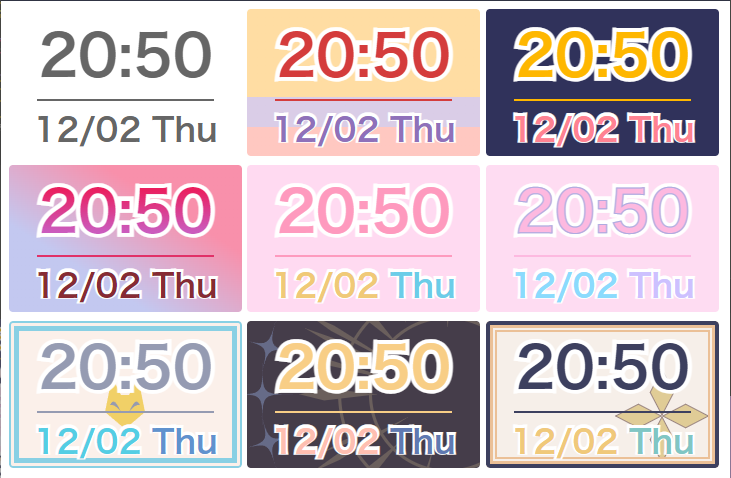
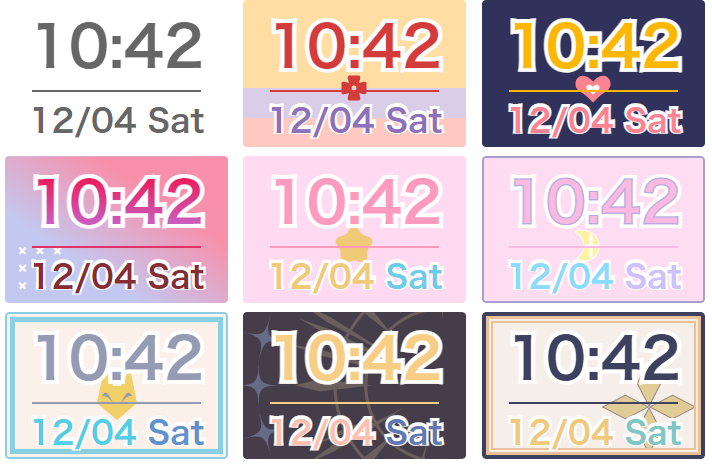
update theme

diff --git a/style.css b/style.css
@@ -14,30 +14,35 @@ body {
 	--bgcolor: #ffdda3;
 	--daycolor: #8f70ba;
 	--weekcolor: #8f70ba;
[1 lines of base64/hex data omitted]
 }
 .lilith {
 	--textcolor: #feb700;
-    --bgcolor: #30325b;
-    --daycolor: #ff8292;
+	--bgcolor: #30325b;
+	--daycolor: #ff8292;
 	--weekcolor: #ff8292;
[1 lines of base64/hex data omitted]
 }
 .kirara {
 	--textcolor: #e13168;
 	--bgcolor: #e7a0c0;
 	--daycolor: #872b34;
 	--weekcolor: #872b34;
[1 lines of base64/hex data omitted]
 }
 .momo {
 	--textcolor: #fe9abe;
 	--bgcolor: #ffdaf1;
 	--daycolor: #f0ca77;
 	--weekcolor: #6bcde8;
[1 lines of base64/hex data omitted]
 }
 .nia {
 	--textcolor: #fdb9e0;
 	--bgcolor: #fedcf2;
 	--daycolor: #8bdbfd;
 	--weekcolor: #cdc1ff;
[1 lines of base64/hex data omitted]
 }
 .iroha {
 	--textcolor: #959bb2;
@@ -78,11 +83,33 @@ body {
 	text-stroke: 0.5px #fdfcfe;
 	-webkit-text-stroke: 0.5px #fdfcfe;
 }
-#clock.warabe {background: linear-gradient(to bottom, #ffdda3 0, #ffdda3 60%, #dacde7 60%, #dacde7 80%, #ffc8c1 80%, #ffc8c1 100%);}
-#clock.lilith {}
-#clock.kirara {	background: linear-gradient(to top right, #c3c8f0 0, #c3c8f0 30%, #f890ab 70%);}
-#clock.momo {}
-#clock.nia {}
+#clock.warabe {
+	background: var(--img), linear-gradient(to bottom, #ffdda3 0, #ffdda3 60%, #dacde7 60%, #dacde7 80%, #ffc8c1 80%, #ffc8c1 100%);
+	background-repeat: no-repeat;
+	background-position: center top 65%;
+}
+#clock.warabe.live {background-position: top right 15%;}
+#clock.warabe.long {background-position: top 15% left 20%;}
+#clock.lilith {background-repeat: no-repeat;background-position: center top 65%;}
+#clock.lilith.live {background-position: top right 15%;}
+#clock.lilith.long {background-position: top 20% left 20%;}
+#clock.kirara {
+	background: var(--img) no-repeat, linear-gradient(to top right, #c3c8f0 0, #c3c8f0 30%, #f890ab 70%);
+	background-position: bottom 0 left 0;
+}
+#clock.momo {
+	background-repeat: no-repeat;
+	background-position: center top 65%;
+}
+#clock.momo.live {background-position: top 10% right 15%;}
+#clock.momo.long {background-position: top 15% left 20%;}
+#clock.nia {
+	background-repeat: no-repeat;
+	background-position: center top 65%;
+	box-shadow: 0 0 0 2px inset #a69ecd;
+}
+#clock.nia.live {background-position: top 10% right 15%;}
+#clock.nia.long {background-position: top 15% left 20%;}
 #clock.regrush {
 	background-repeat: no-repeat;
 	background-position: left 50%;
@@ -101,13 +128,8 @@ body {
 }
 #clock.shin.live {background-position: right 5% top -20px;}
 #clock.shin.long {background-position: left 5% top -20px;}
-#clock.live > div > span {
-	margin-left: 1rem;
-	font-size: 2rem
-}
-#clock.long > div > span {
-	margin-right: 0.5rem;
-}
+#clock.live > div > span {margin-left: 1rem;font-size: 2rem}
+#clock.long > div > span {margin-right: 0.5rem;}
 
 .kirara #time::after {
 	background: linear-gradient(#ea1f5f 25%, #cb5bbd 75%);
@@ -138,8 +160,6 @@ body {
 hr {margin: 0.2rem;border: 1px solid var(--textcolor);}
 #dayweek {font-size: 2rem; color: var(--daycolor);}
 
-/* #day {color: var(--daycolor);} */
-/* #week, #live {color: var(--weekcolor);} */
 #live::after {content: 'Live';top: 0;}
 
 .text-border {
